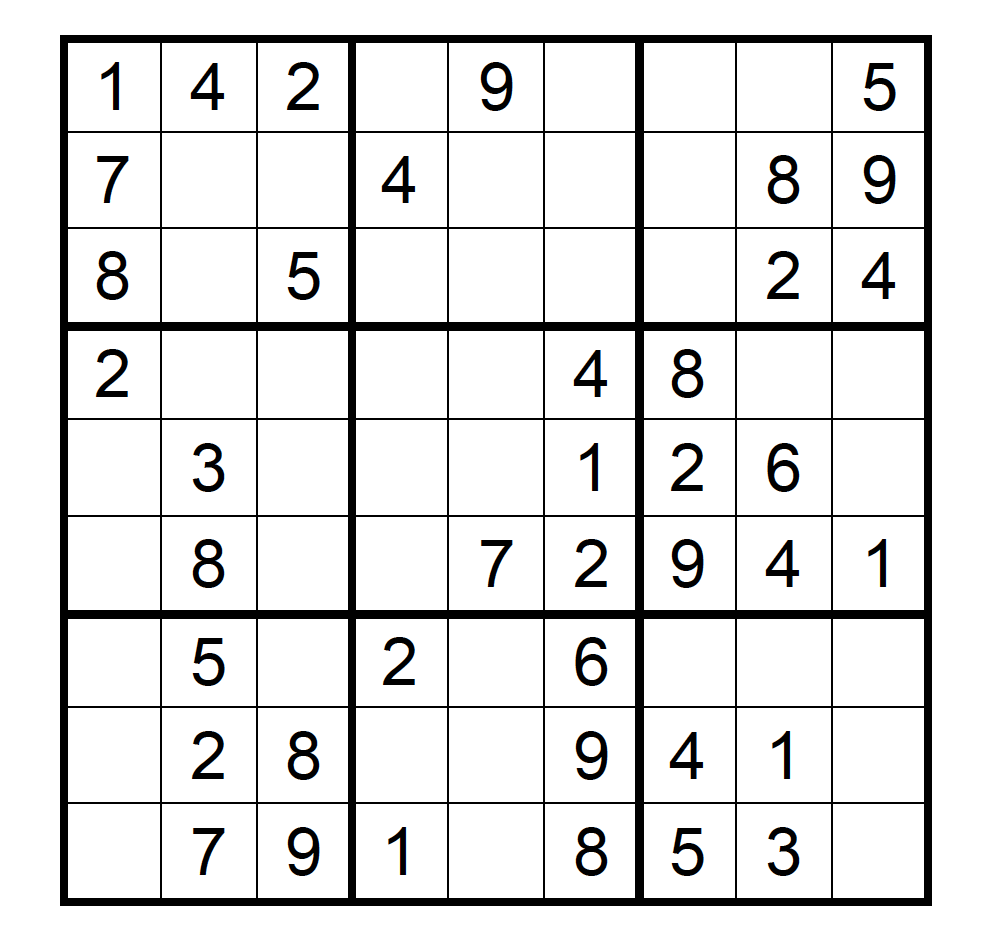
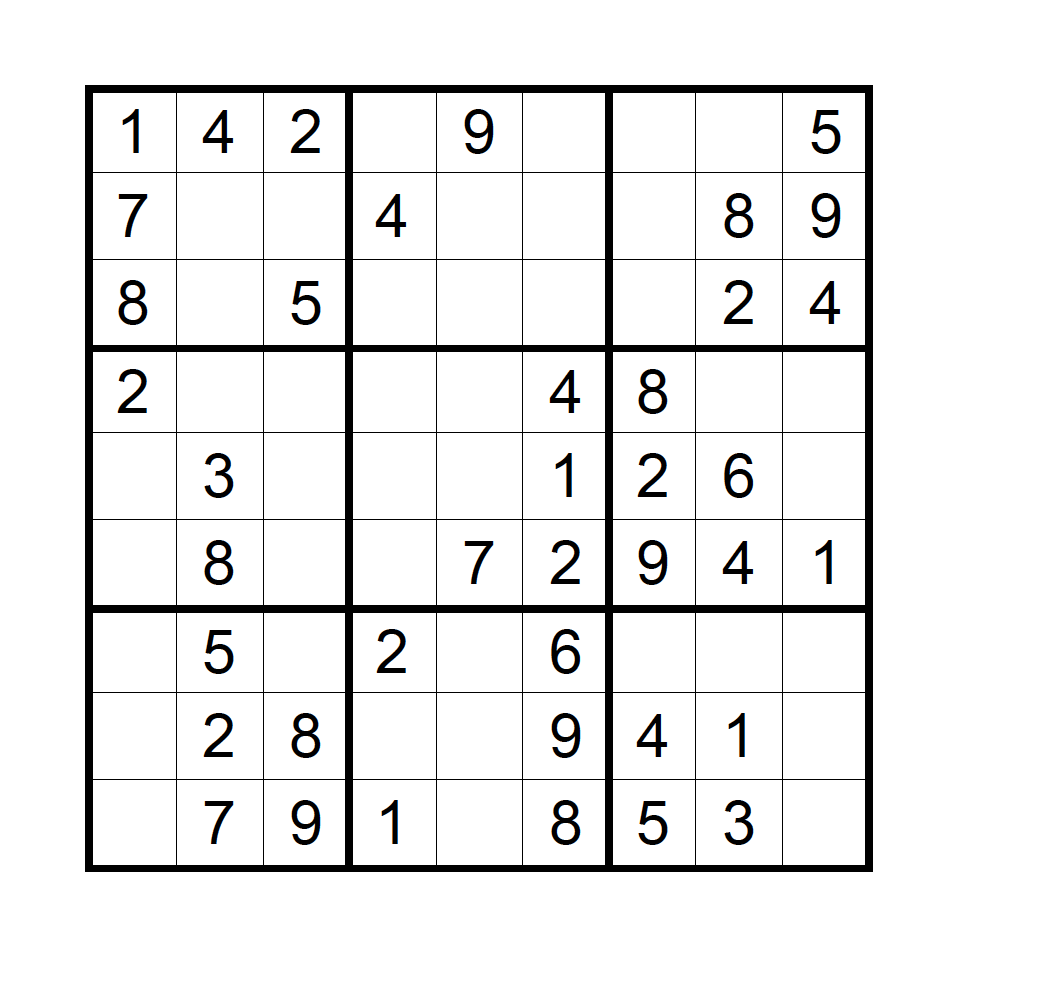
update kernels to cater for the new dataset

Changed region(s): [[0.062, 0.0305, 0.93, 0.9768], [0.434, 0.2137, 0.496, 0.2747]]

diff --git a/src/sudoku.m b/src/sudoku.m
@@ -2,7 +2,7 @@ clear all;
 clc;
 
 % read in the RGB sudoku puzzle image
-sudoku_image1 = imread("../data/sudoku1.png");
+sudoku_image1 = imread("../data/sudoku14.png");
 
 % get the puzzle image in 2D
 grayImage = rgb2gray(sudoku_image1);
